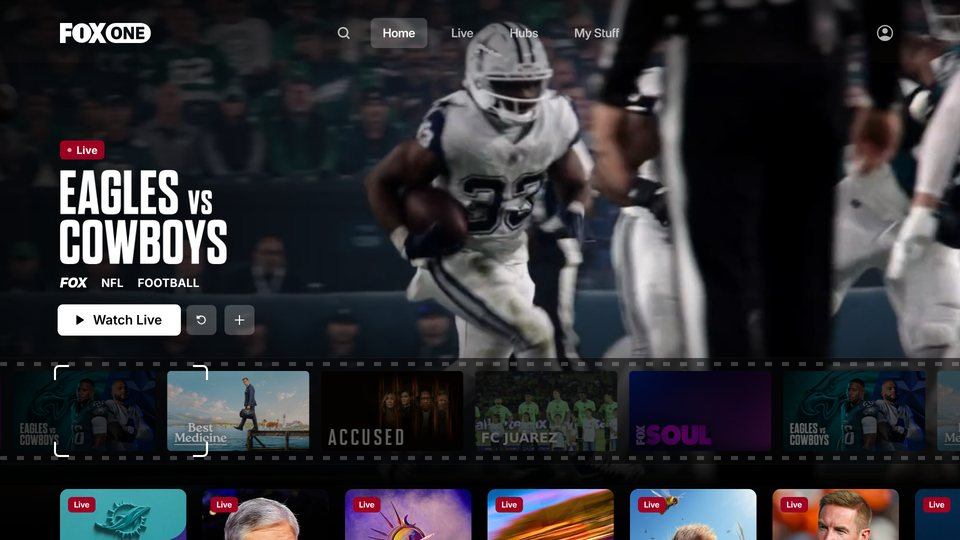
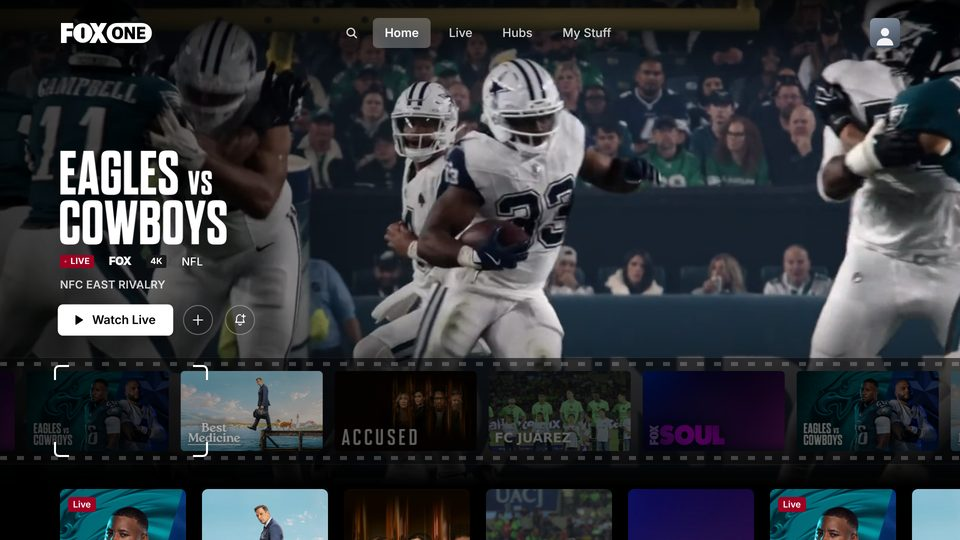
C9–C11: shared FOX One lockup and the shared D-pad focus model
hero-focus.js now hands each concept's CTA row to HeroKit.focus, so nav, hero and
Live Lineup focus behave the same as every other concept.

Claude-Session: https://claude.ai/code/session_01FWkKVt7uaQAGvCvKhrAVNM

diff --git a/shared/hero-focus.js b/shared/hero-focus.js
@@ -1,79 +1,16 @@
-/* HeroFocus — TV D-pad focus for a concept page (used by C9–C11).
-   Zones: nav (page nav strip) · hero (the CTAs) · rail (stub rail below).
-     hero:  ← → move across the CTAs. → past the last CTA brings the next item into the main hero
-            position (the peek never takes focus); ← from the first CTA brings back the previous item.
-            ↑ goes to the nav, ↓ leaves the hero for the rail. Nothing scrolls inside the hero.
-     nav:   ← → across Search / Home / Live / Hubs / My Stuff / Profile; ↓ back to the primary CTA.
-     rail:  ← → across tiles; ↑ back to the primary CTA.
-   Focus always resets to the primary CTA when a new slide lands. Nothing in the margins takes focus. */
+/* HeroFocus — kept for C9–C11. It now hands their CTA row to the shared D-pad model in stage.js
+   (HeroKit.focus), so every concept focuses the same way:
+     hero:  ← → across the CTAs; → past the last brings the next title into the hero, focus on its primary CTA;
+            ← past the first brings back the previous one. Nothing in the margins or the peek takes focus.
+     ↑ nav (live HTML nav) · ↓ Live Lineup row below the hero. */
 (function () {
-  /* Hit boxes measured from assets/ui/nav-strip.png and rail-strip.png (stage px) */
-  const NAV = [[660, 38, 56, 56, 28], [741, 36, 114, 60, 10], [872, 36, 104, 60, 10], [996, 36, 104, 60, 10], [1124, 36, 140, 60, 10], [1740, 34, 60, 60, 30]];
-  const RAIL = Array.from({ length: 6 }, (_, k) => [120 + k * 285, 978, 252, 142, 16]);
-
   function init(K, { ctas }) {
-    const stage = K.stage;
-    stage.insertAdjacentHTML("beforeend", `<div class="fring" id="fring"></div>
-      <style>
-        .fring { position: absolute; z-index: 80; pointer-events: none; opacity: 0; border-radius: 12px;
-          box-shadow: 0 0 0 4px #fff, 0 0 26px 6px rgba(255,255,255,.28);
-          transition: left .22s var(--ease-std), top .22s var(--ease-std), width .22s var(--ease-std), height .22s var(--ease-std), opacity .2s; }
-        .fring.on { opacity: 1; }
-        .stage.zone-rail .page-rail { transform: translateY(-8px); }
-        .stage:not(.zone-hero) .btn.is-focused { background: var(--btn-2); color: #fff; transform: none; box-shadow: none; }
-      </style>`);
-    const ring = stage.querySelector("#fring");
-    const st = { zone: "hero", i: 0, nav: 1, rail: 0 };
-
-    function paint() {
-      stage.classList.toggle("zone-hero", st.zone === "hero");
-      stage.classList.toggle("zone-nav", st.zone === "nav");
-      stage.classList.toggle("zone-rail", st.zone === "rail");
-      const list = ctas() || [];
-      list.forEach((b, k) => b.classList.toggle("is-focused", st.zone === "hero" ? k === st.i : k === 0));
-      const box = st.zone === "nav" ? NAV[st.nav] : st.zone === "rail" ? RAIL[st.rail] : null;
-      if (box) {
-        const [x, y, w, h, r] = box;
-        Object.assign(ring.style, { left: x + "px", top: (st.zone === "rail" ? y - 8 : y) + "px", width: w + "px", height: h + "px", borderRadius: r + "px" });
-      }
-      ring.classList.toggle("on", !!box);
-    }
-
-    K.onKey((e) => {
-      const k = e.key, n = (ctas() || []).length;
-      if (st.zone === "hero") {
-        if (k === "ArrowRight") { if (st.i < n - 1) st.i++; else { st.i = 0; K.rot.next(true); } }
-        else if (k === "ArrowLeft") { if (st.i > 0) st.i--; else { st.i = 0; K.rot.prev(true); } }
-        else if (k === "ArrowUp") st.zone = "nav";
-        else if (k === "ArrowDown") st.zone = "rail";
-        else if (k === "Enter") return true;
-        else return false;
-      } else if (st.zone === "nav") {
-        if (k === "ArrowRight") st.nav = Math.min(NAV.length - 1, st.nav + 1);
-        else if (k === "ArrowLeft") st.nav = Math.max(0, st.nav - 1);
-        else if (k === "ArrowDown") { st.zone = "hero"; st.i = 0; }
-        else if (k === "ArrowUp" || k === "Enter") {}
-        else return false;
-      } else {
-        if (k === "ArrowRight") st.rail = Math.min(RAIL.length - 1, st.rail + 1);
-        else if (k === "ArrowLeft") st.rail = Math.max(0, st.rail - 1);
-        else if (k === "ArrowUp") { st.zone = "hero"; st.i = 0; }
-        else if (k === "ArrowDown" || k === "Enter") {}
-        else return false;
-      }
-      paint();
-      return true;
-    });
-
-    const api = {
-      get zone() { return st.zone; },
-      /* Call after a new slide's CTAs are in the DOM: focus lands on its primary CTA */
-      refresh() { st.i = 0; paint(); },
-      paint,
+    K.focus.setHeroItems(ctas);
+    return {
+      get zone() { return K.zone; },
+      refresh() { K.focus.resetCta(); },
+      paint() { K.focus.refresh(); },
     };
-    paint();
-    return api;
   }
-
   window.HeroFocus = { init };
 })();

diff --git a/c10-film-gate.html b/c10-film-gate.html
@@ -9,7 +9,6 @@
      whole time, so the next title is always sitting in the frame beside the gate, and its distance to
      the gate is the timer. When it reaches the gate, that frame opens out to fill the screen. */
   .stage { background: #000; }
-  .stage .page-nav { mix-blend-mode: screen; }
   .bd { position: absolute; inset: 0; z-index: 1; }
   .bd .art > * { width: 100%; height: 100%; object-fit: cover; }
   .bd.opening { transition: clip-path 1.05s var(--ease-inout); }
@@ -48,7 +47,6 @@
   .gate i:nth-child(2) { right: 0; top: 0; border-width: 4px 4px 0 0; border-top-right-radius: 10px; }
   .gate i:nth-child(3) { left: 0; bottom: 0; border-width: 0 0 4px 4px; border-bottom-left-radius: 10px; }
   .gate i:nth-child(4) { right: 0; bottom: 0; border-width: 0 4px 4px 0; border-bottom-right-radius: 10px; }
-  .stage .page-rail { z-index: 18; }
 </style>
 </head>
 <body>
@@ -75,19 +73,10 @@ const GX = 120, FW = 284, FH = 160, PITCH = 308, BAND_Y = 716 + 26;
 const still = (d) => d.art.kind === "video" ? (d.art.still || d.art.poster) : d.art.src;
 const ease = (t) => 1 - Math.pow(1 - t, 3);
 
-function ctaHtml(d) {
-  const list = d.ctas.some((c) => c.icon === "plus") ? d.ctas : [...d.ctas, { icon: "plus", label: "My Stuff" }];
-  return list.map((c, k) => k === 0 ? `<span class="btn is-focused">${K.ICONS[c.icon]}${c.label}</span>` : `<span class="btn btn--sq">${K.ICONS[c.icon]}</span>`).join("");
-}
 function copy(d) {
-  const meta = d.meta.filter((m) => !(d.type === "live" && m === "Live"));
-  const b = d.type === "live" ? `<span class="badge badge--live"><span class="dot"></span>Live</span>` : d.status ? `<span class="badge badge--new">${d.status.badge}</span>` : "";
-  return `<div class="copy stagger">
-    ${b ? `<div class="status-row" style="--i:0">${b}</div>` : ""}
-    <div class="logo" style="--i:1"><img src="${d.logo}" alt="${d.logoAlt || ""}" draggable="false"></div>
-    <div class="meta" style="--i:2">${meta.map((m, k) => k === 0 ? `<span class="net">${m}</span>` : `<span>${m}</span>`).join("")}</div>
-    <div class="ctas" style="--i:3">${ctaHtml(d)}</div>
-  </div>`;
+  // Shared FOX One lockup: title art · meta row (Live / New Episode badge inline) · one short line · CTAs
+  const st = (h, i) => h.replace(/^<(\w+) class="/, `<$1 style="--i:${i}" class="`);
+  return `<div class="copy stagger">${st(K.ui.title(d), 0)}${st(K.ui.metaRow(d), 1)}<div class="tagline" style="--i:2">${d.tagline}</div>${st(K.ui.ctas(d), 3)}</div>`;
 }
 
 /* Reel: frames k = -1 … 6 around the current index; frame 0 sits in the gate, frame 1 is the peek */

diff --git a/shared/stage.js b/shared/stage.js
@@ -199,11 +199,12 @@
   function Focus(kit, opts) {
     const stage = kit.stage, mode = opts.heroMode || "ctas", HOLD = 8000;
     const st = { zone: "hero", cta: 0, nav: 1, tile: 0, userPaused: false, holdUntil: 0, want: null };
+    let heroItems = opts.heroItems;
     const navEls = () => [...stage.querySelectorAll(".fo-nav__item, .fo-nav__profile")];
     const tiles = () => [...stage.querySelectorAll(".rail-tiles .tile-p")];
     const visible = (el) => el.checkVisibility ? el.checkVisibility({ opacityProperty: true, visibilityProperty: true }) : !!el.offsetParent;
     function heroBtns() {
-      if (opts.heroItems) return opts.heroItems();   // concept-supplied focus row (e.g. CTAs + an inline trailer)
+      if (heroItems) return heroItems() || [];   // concept-supplied focus row (e.g. CTAs + an inline trailer)
       const groups = [...stage.querySelectorAll(".ctas")].filter((g) => !g.closest(".page-rail") && visible(g) && !g.closest(".out, .is-prev, .is-out"));
       const g = groups[groups.length - 1];
       return g ? [...g.querySelectorAll(".btn")] : [];
@@ -217,7 +218,7 @@
       stage.classList.toggle("hero-focus", st.zone === "hero");
       if (st.zone === "hero" && mode === "ctas") {
         // Every rendered CTA row mirrors the focused index, so crossfading slides never flash the wrong state
-        if (opts.heroItems) { const b = opts.heroItems(); const n = Math.min(st.cta, b.length - 1); if (b[n]) b[n].classList.add("is-focused"); }
+        if (heroItems) { const b = heroItems() || []; const n = Math.min(st.cta, b.length - 1); if (b[n]) b[n].classList.add("is-focused"); }
         else stage.querySelectorAll(".ctas").forEach((g) => { const b = g.querySelectorAll(".btn"); const n = Math.min(st.cta, b.length - 1); if (b[n]) b[n].classList.add("is-focused"); });
       } else if (st.zone === "nav") { const n = navEls(); n[st.nav] && n[st.nav].classList.add("is-focused"); }
       else if (st.zone === "rail") {
@@ -244,6 +245,8 @@
       get cta() { return st.cta; },
       togglePause() { st.userPaused = !st.userPaused; st.want = null; pause(); kit.refreshHud(); },
       refresh: schedule,
+      setHeroItems(fn) { heroItems = fn; schedule(); },
+      resetCta() { st.cta = 0; schedule(); },
       key(e) {
         const k = e.key, z = st.zone;
         if (!/^(Arrow(Up|Down|Left|Right)|Enter)$/.test(k)) return false;

diff --git a/c11-long-exposure.html b/c11-long-exposure.html
@@ -10,7 +10,6 @@
      The streak widens and brightens as the timer runs. On advance it sweeps across the whole screen
      and the smear resolves into the sharp picture. */
   .stage { background: #000; }
-  .stage .page-nav { mix-blend-mode: screen; }
   .bd { position: absolute; inset: 0; z-index: 1; }
   .bd .art > * { width: 100%; height: 100%; object-fit: cover; animation: drift 16s linear both; }
   @keyframes drift { from { transform: scale(1.06) translateX(-14px); } to { transform: scale(1) translateX(0); } }
@@ -35,7 +34,6 @@
     transition: opacity .35s var(--ease-std), box-shadow .2s var(--ease-std); }
   .peek img { max-width: 100%; max-height: 110px; object-fit: contain; filter: drop-shadow(0 3px 14px rgba(0,0,0,.7)); }
   .peek.gone { opacity: 0; }
-  .stage .page-rail { z-index: 22; }
 </style>
 </head>
 <body>
@@ -130,19 +128,10 @@ function drawTrans(now) {
   return false;
 }
 
-function ctaHtml(d) {
-  const list = d.ctas.some((c) => c.icon === "plus") ? d.ctas : [...d.ctas, { icon: "plus", label: "My Stuff" }];
-  return list.map((c, k) => k === 0 ? `<span class="btn is-focused">${K.ICONS[c.icon]}${c.label}</span>` : `<span class="btn btn--sq">${K.ICONS[c.icon]}</span>`).join("");
-}
 function copy(d) {
-  const meta = d.meta.filter((m) => !(d.type === "live" && m === "Live"));
-  const b = d.type === "live" ? `<span class="badge badge--live"><span class="dot"></span>Live</span>` : d.status ? `<span class="badge badge--new">${d.status.badge}</span>` : "";
-  return `<div class="copy stagger">
-    ${b ? `<div class="status-row" style="--i:0">${b}</div>` : ""}
-    <div class="logo" style="--i:1"><img src="${d.logo}" alt="${d.logoAlt || ""}" draggable="false"></div>
-    <div class="meta" style="--i:2">${meta.map((m, k) => k === 0 ? `<span class="net">${m}</span>` : `<span>${m}</span>`).join("")}</div>
-    <div class="ctas" style="--i:3">${ctaHtml(d)}</div>
-  </div>`;
+  // Shared FOX One lockup: title art · meta row (Live / New Episode badge inline) · one short line · CTAs
+  const st = (h, i) => h.replace(/^<(\w+) class="/, `<$1 style="--i:${i}" class="`);
+  return `<div class="copy stagger">${st(K.ui.title(d), 0)}${st(K.ui.metaRow(d), 1)}<div class="tagline" style="--i:2">${d.tagline}</div>${st(K.ui.ctas(d), 3)}</div>`;
 }
 
 let curBd = null, lastP = 0;

diff --git a/c9-spine-shelf.html b/c9-spine-shelf.html
@@ -68,24 +68,10 @@ const SLOTS = [
 ];
 const still = (d) => d.art.kind === "video" ? (d.art.still || d.art.poster) : d.art.src;
 
-function badge(d) {
-  if (d.type === "live") return `<span class="badge badge--live"><span class="dot"></span>Live</span>`;
-  return d.status ? `<span class="badge badge--new">${d.status.badge}</span>` : "";
-}
-/* Primary CTA first, then the square actions; + (My Stuff) is always last so → ends on it */
-function ctaHtml(d) {
-  const list = d.ctas.some((c) => c.icon === "plus") ? d.ctas : [...d.ctas, { icon: "plus", label: "My Stuff" }];
-  return list.map((c, k) => k === 0 ? `<span class="btn is-focused">${K.ICONS[c.icon]}${c.label}</span>` : `<span class="btn btn--sq">${K.ICONS[c.icon]}</span>`).join("");
-}
 function copy(d) {
-  const meta = d.meta.filter((m) => !(d.type === "live" && m === "Live"));
-  const b = badge(d);
-  return `<div class="copy stagger">
-    ${b ? `<div class="status-row" style="--i:0">${b}</div>` : ""}
-    <div class="logo" style="--i:1"><img src="${d.logo}" alt="${d.logoAlt || ""}" draggable="false"></div>
-    <div class="meta" style="--i:2">${meta.map((m, k) => k === 0 ? `<span class="net">${m}</span>` : `<span>${m}</span>`).join("")}</div>
-    <div class="ctas" style="--i:3">${ctaHtml(d)}</div>
-  </div>`;
+  // Shared FOX One lockup: title art · meta row (Live / New Episode badge inline) · one short line · CTAs
+  const st = (h, i) => h.replace(/^<(\w+) class="/, `<$1 style="--i:${i}" class="`);
+  return `<div class="copy stagger">${st(K.ui.title(d), 0)}${st(K.ui.metaRow(d), 1)}<div class="tagline" style="--i:2">${d.tagline}</div>${st(K.ui.ctas(d), 3)}</div>`;
 }
 
 /* One element per title; each gets a slot from its distance to the current index */
